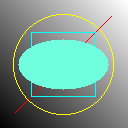
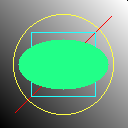
update canvas & json

diff --git a/README.MD b/README.MD
@@ -369,23 +369,25 @@ local size = 128
 local canvas = Canvas(size, size)
 for i=1,size do
     for j=1,size do
-        local c = i + j - 1
-        canvas:setPixel(i, j, {c, c, c, 255})
+        local c = (i + j - 1) % 255
+        canvas:setPixel(i, j, tools.rgba_to_hex(c, c, c, 255))
     end
 end
-canvas:drawLine(16, 16, 112, 112, {255, 0, 0, 255})
-canvas:drawRect(32, 32, 96, 96, false, {10, 255, 255, 255})
-canvas:drawCircle(64, 64, 50, false, {255, 255, 0, 255})
-canvas:drawEllipse(64, 64, 45, 25, {10, 255, 200, 150})
+canvas:drawLine(16, 16, 112, 112, 0xff0000ff)
+canvas:drawRect(32, 32, 96, 96, false, 0x22ffffff)
+canvas:drawCircle(64, 64, 50, false, 0xffff44ff)
+canvas:drawEllipse(64, 64, 45, 25, 0x22ff88ff)
 -- write to file
 local img = library.pngEncode(size, size, "rgba")
 for y=size,1,-1 do
     for x=1,size do
-        img:write(canvas:getPixel(x, y))
+        local px = canvas:getPixel(x, y)
+        local rgba = {tools.hex_to_rgba(px)}
+        img:write(rgba)
     end
 end
 assert(img.done == true)
-files.write("./others/canvas.png", table.concat(img.output), "wb")
+files.write("./others/test_canvas.png", table.concat(img.output), "wb")
 ```
 
 ![log_test](./others/test_canvas.png)
